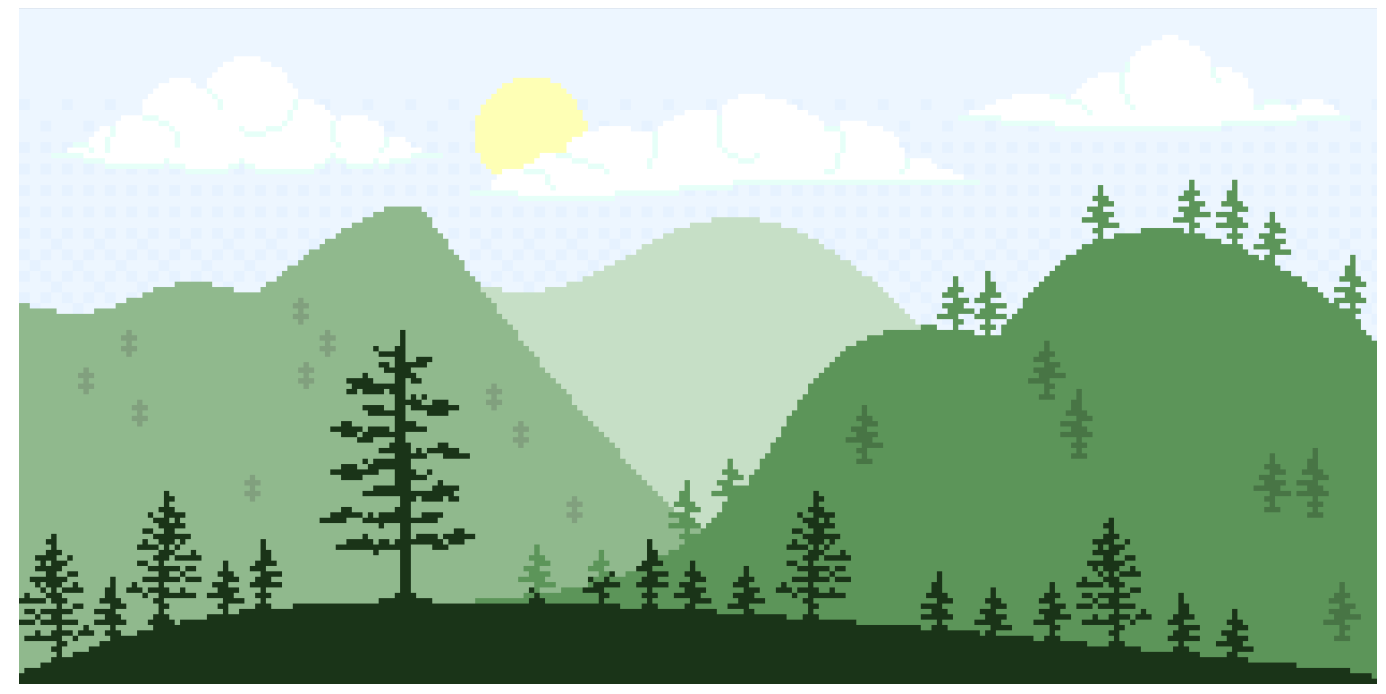
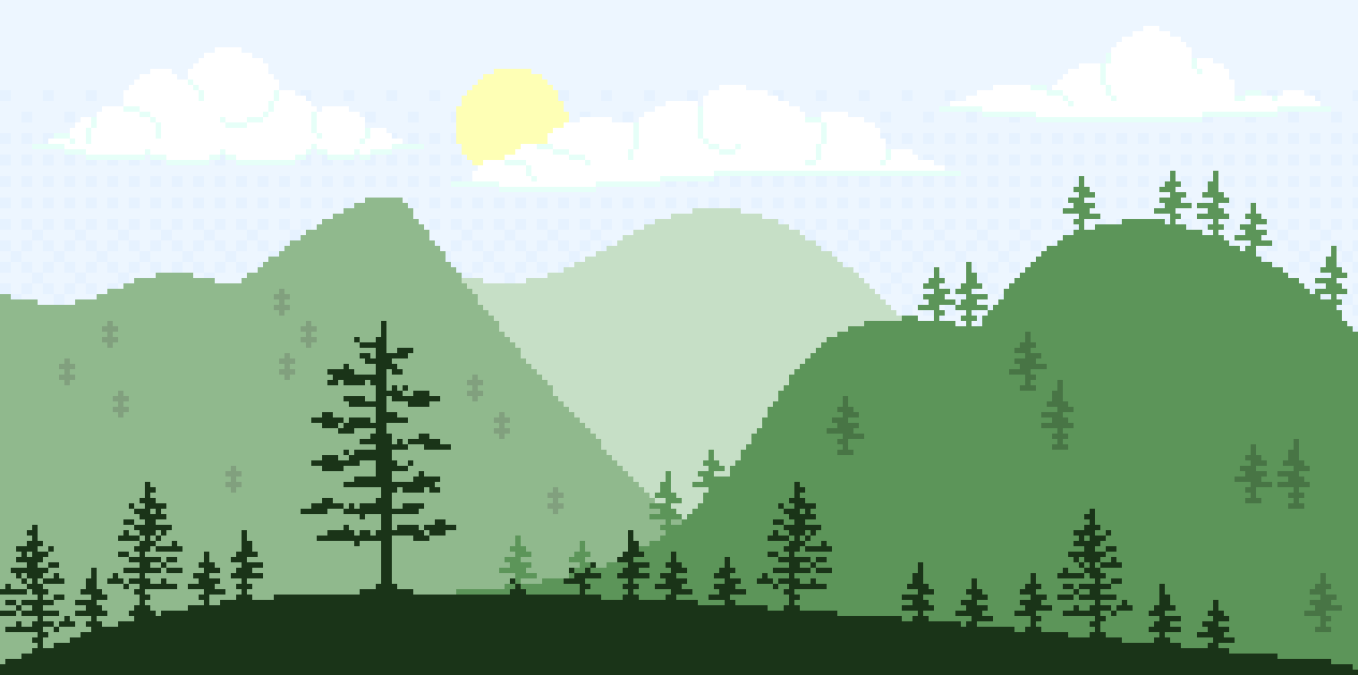
add day/night cycle to the level select screen

diff --git a/src/game/gameScenes/levelSelect.js b/src/game/gameScenes/levelSelect.js
@@ -3,41 +3,48 @@ import verycool from "../assets/images/character/verycool.png";
 import playerVars from "../util functions/playerVars";
 import playerControls from "../util functions/playerControls";
 import { createExit, exitLoad, exitObject } from "../assets/objects/exit/exit";
-
+import dayImage from "./../assets/images/backgrounds/day.png";
+import nightImage from "./../assets/images/backgrounds/night.png";
 
 class LevelSelect extends Phaser.Scene {
-  constructor() {
-    super("Level Select");
-    playerVars(this);
-  }
+	constructor() {
+		super("Level Select");
+		playerVars(this);
+	}
 
-  preload() {
-    this.load.image(`player`, verycool);
-    exitLoad(this);
-  }
+	preload() {
+		this.load.image(`player`, verycool);
+		exitLoad(this);
 
-  create() {
+		this.load.image(`day`, dayImage);
+		this.load.image(`night`, nightImage);
+	}
 
-    //declarations
-    const exit = exitObject(this);
+	create() {
+		this.minutes = new Date(Date.now()).getMinutes();
 
-    //exit
-    createExit(exit, [100, 570], [1, 1]);
+		if (this.minutes < 30) this.bg = this.add.image(this.sys.game.config.width / 2, this.sys.game.config.height / 2, "day");
+		else this.bg = this.add.image(this.sys.game.config.width / 2, this.sys.game.config.height / 2, "night");
 
+		this.bg.setDisplaySize(this.sys.game.config.width, this.sys.game.config.height);
 
-    //player
-    this.player = this.physics.add.image(100, 500, `player`).setScale(.5, .5);
-    this.player.body.setMaxVelocityX(this.playerMaxRunSpeed);
+		//declarations
+		this.exit = exitObject(this);
 
-    this.player.setCollideWorldBounds(true);
-    this.controls = this.input.keyboard.addKeys(`W,S,A,D,UP,DOWN,RIGHT,LEFT,SPACE`);
+		//exit
+		createExit(this.exit, [100, 570], [1, 1]);
 
-  }
+		//player
+		this.player = this.physics.add.image(100, 500, `player`).setScale(0.5, 0.5);
+		this.player.body.setMaxVelocityX(this.playerMaxRunSpeed);
 
-  update() {
-    playerControls(this);
+		this.player.setCollideWorldBounds(true);
+		this.controls = this.input.keyboard.addKeys(`W,S,A,D,UP,DOWN,RIGHT,LEFT,SPACE`);
+	}
 
-  }
+	update() {
+		playerControls(this);
+	}
 }
 
-export default LevelSelect
+export default LevelSelect;

diff --git a/src/components/Game.js b/src/components/Game.js
@@ -12,8 +12,8 @@ class Game {
 		if (this.game === null) {
 			const config = {
 				type: Phaser.AUTO,
-				width: 800,
-				height: 600,
+				width: 1600,
+				height: 800,
 				scene: [Test1, LevelSelect],
 				physics: {
 					default: "arcade",

diff --git a/index.html b/index.html
@@ -8,6 +8,5 @@
 	<body>
 		<div id="root"></div>
 		<script type="module" src="/src/main.jsx"></script>
-		<script src="./public/levels.js"></script>
 	</body>
 </html>
